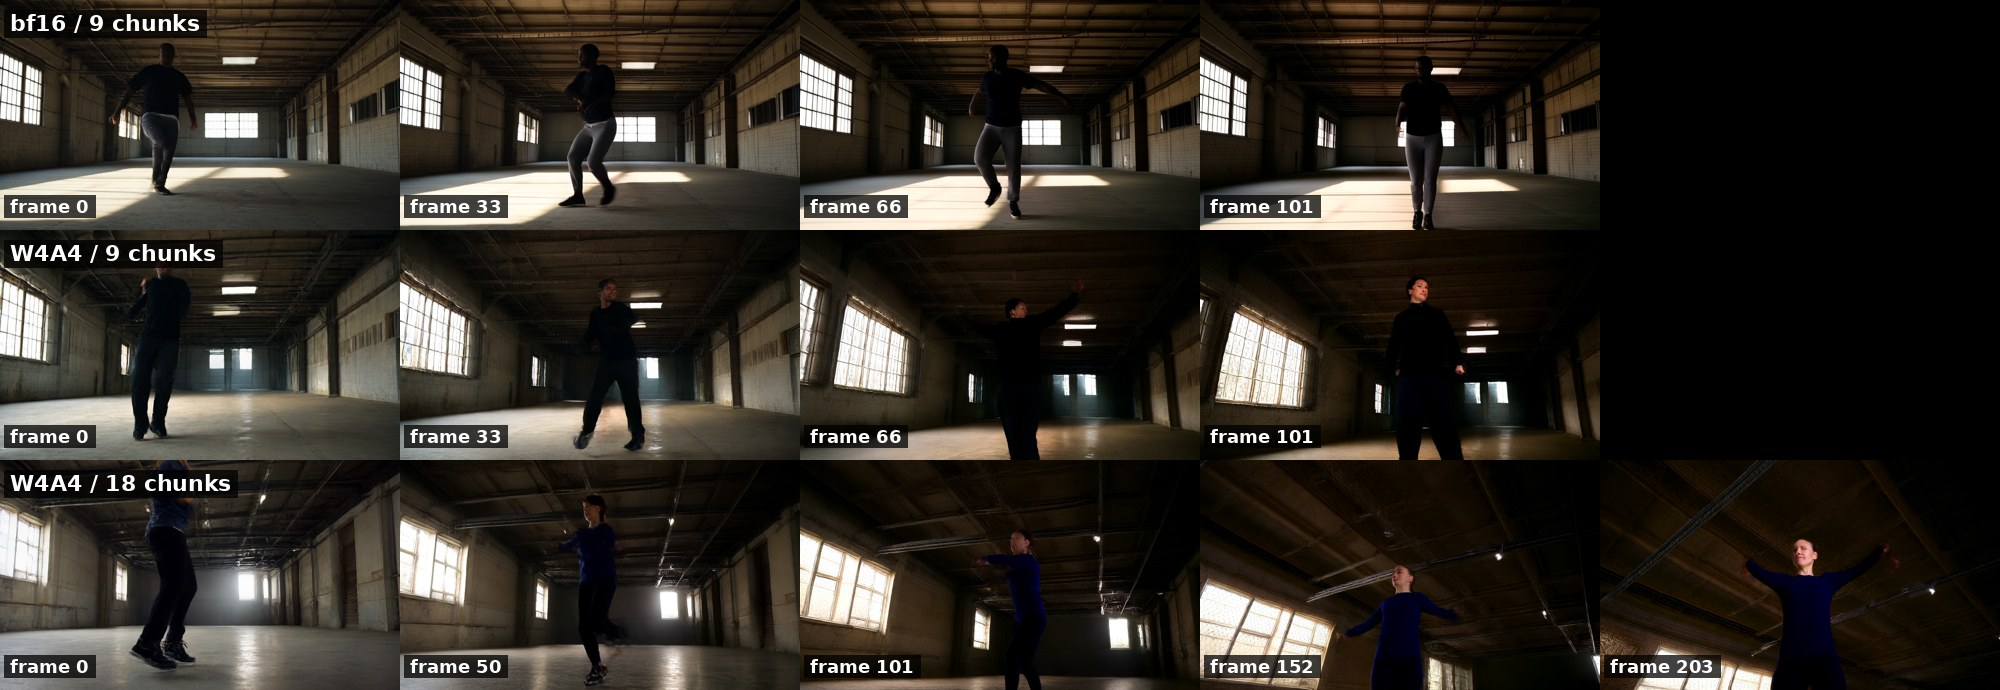
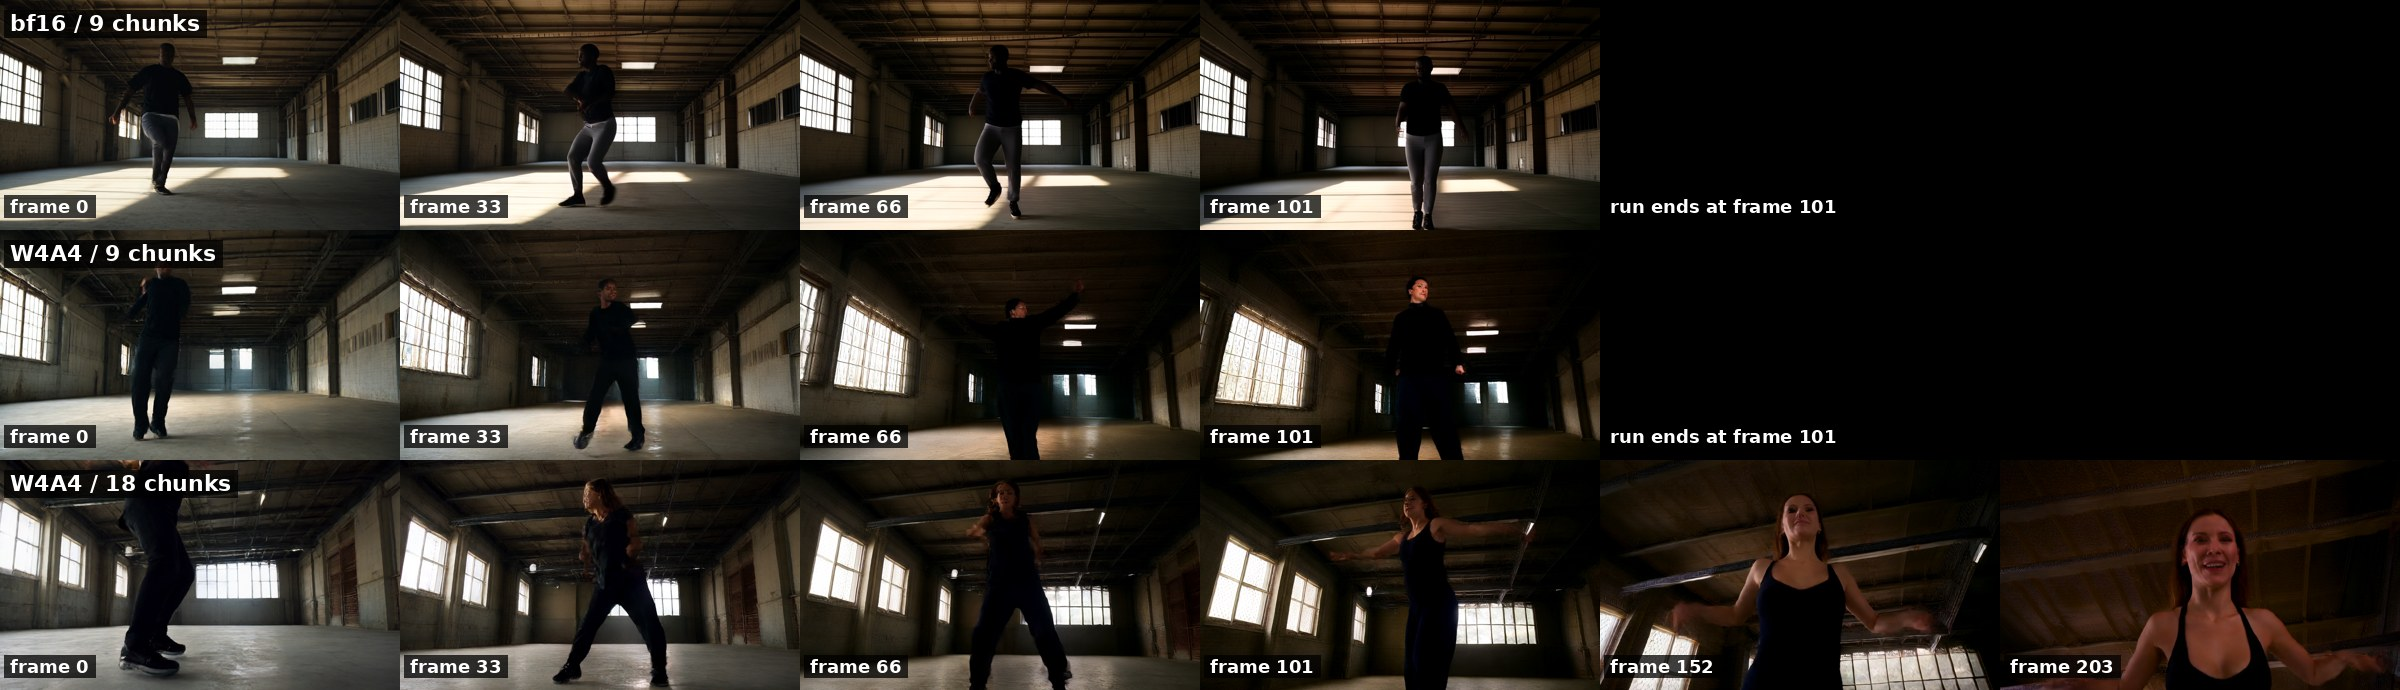
lab: align strip columns by frame index, caption names the kernel nondeterminism

diff --git a/src/pages/lab.md b/src/pages/lab.md
@@ -91,7 +91,7 @@ Then the ruler, and the measurement I did not expect to be the important one. I 
 
 ![bf16 and four-bit runs side by side across time](/img/lab/strip-video-bf16-w4a4.jpg)
 
-*Same prompt, seed 42, same card, all rows 832x480 at 4 steps. The bf16 reference over 9 chunks, the four-bit build over 9 chunks, and the four-bit build over 18 chunks. Two valid videos of the same prompt, and the double-length run ends coherent at frame 203.*
+*Same prompt, seed 42, same card, all rows 832x480 at 4 steps, columns aligned by frame index. The bf16 reference and the four-bit build both end at frame 101, the double-length four-bit run continues to frame 203 and ends coherent. The two four-bit rows share the seed and still differ, because the fused kernels are nondeterministic across runs and the sampler amplifies that like any other perturbation.*
 
 The next pass is the 14B through the same pipeline, one rented A100 for the calibration, and the checkpoint lands back on the 4090, where the arithmetic says it fits in under 20 GB with the cache resident. The full receipts, scripts and raw numbers live in [krea-realtime-bench](https://github.com/sztlink/krea-realtime-bench).
 
